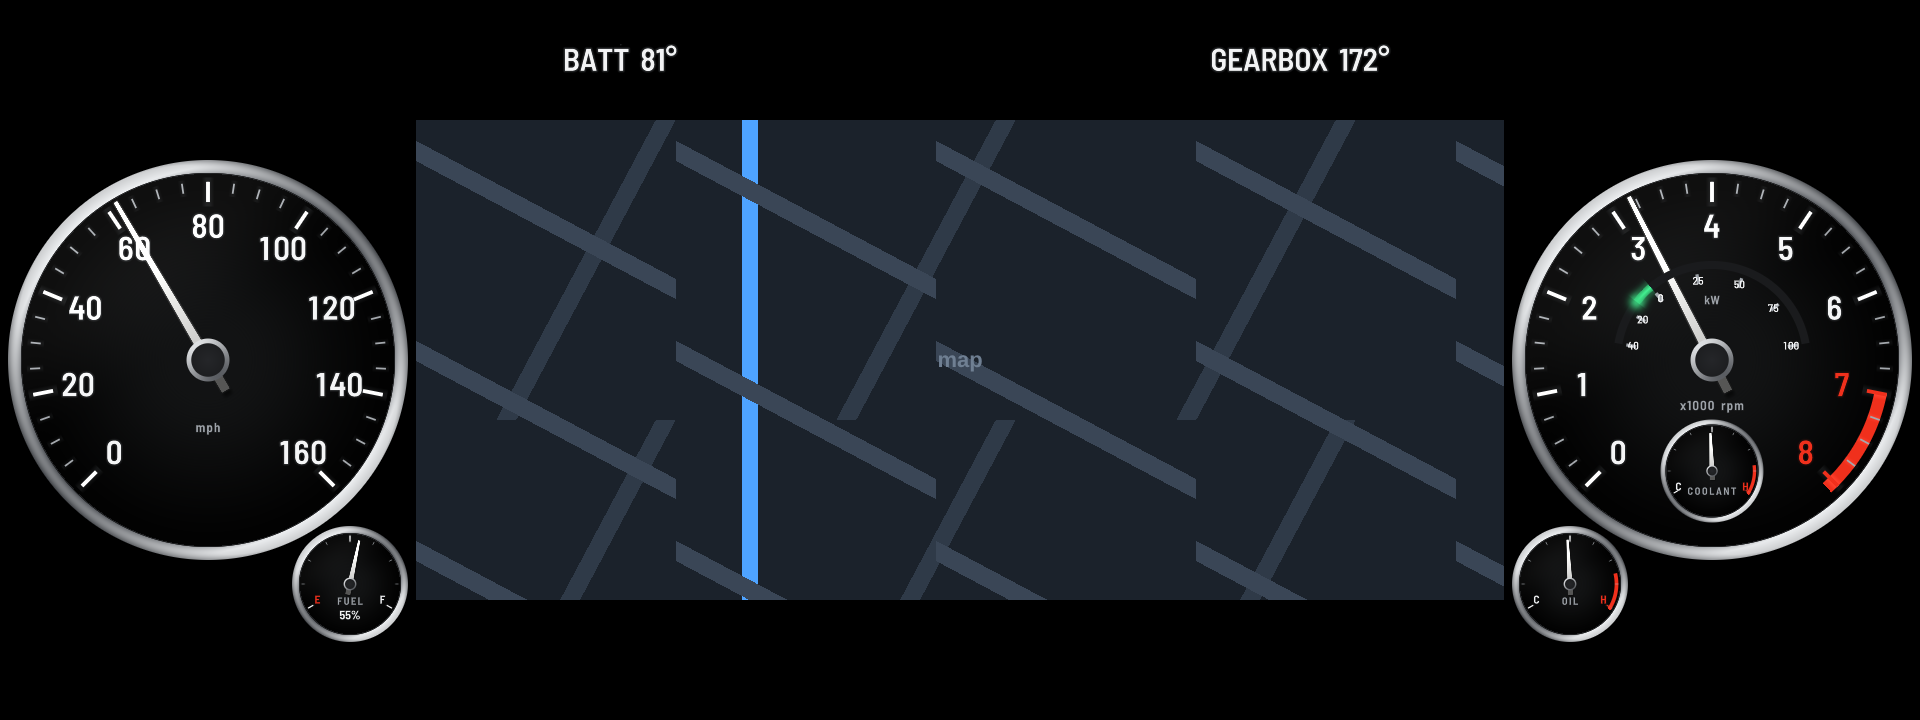
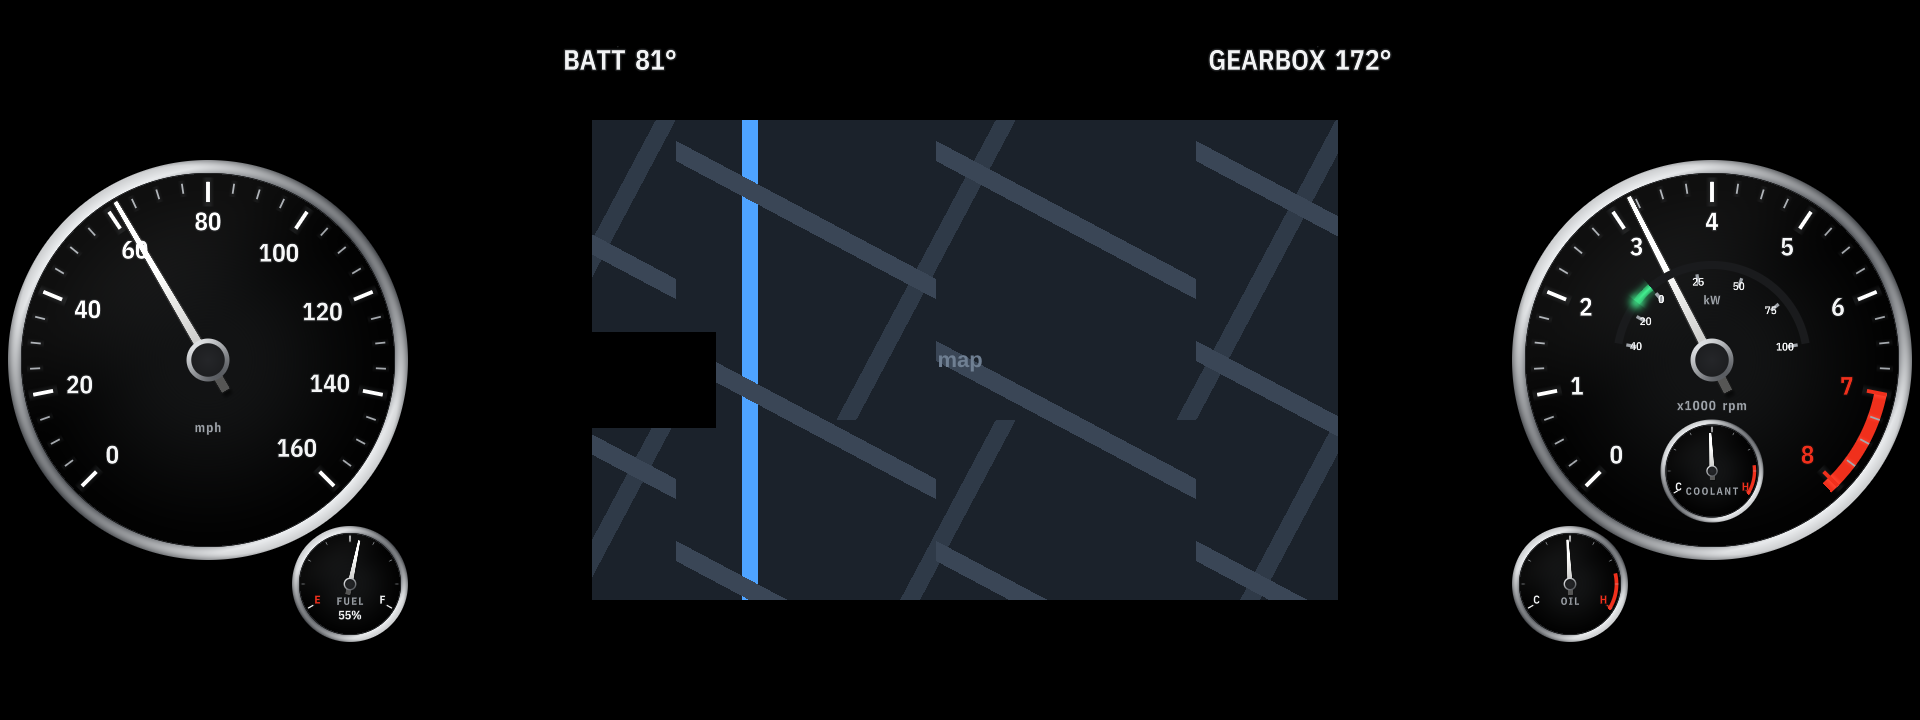
Layouts 0.50.0: the map's view between the cluster's own fins
With the map or the stock centre over the car's strip, every layout but
ID7 M and ID8 M leaves the middle of the map area open (MAP_VIEW, x
592-1338, y 120-600), the window Waze on cluster draws into, and covers
the cluster's own speed readout at its left edge (STOCK_SPEED). The stock
fins, "km/h", speed limit sign and "1/min" no longer show cut off at the
window's edges. Pulse's and GT3's rev bars run under the view.

Claude-Session: https://claude.ai/code/session_01QXViLhVqF9rtKtBBVyCzXw

diff --git a/apps/akakingj_cluster_layouts/layout_common.js b/apps/akakingj_cluster_layouts/layout_common.js
@@ -71,14 +71,25 @@ const clock = () => require('./clock').hm(undefined, true);   // (12-hour: with 
 
 /* ---------- the map window and the extra readings ---------- */
 
-/** Where waze-on-cluster's map (and the stock map) shows on the panel: the native map area (slot 0x100). With
- * the centre set to 'map', a layout leaves this clear and puts nothing over it. */
+/** The native map area (slot 0x100), where the KOMBI draws its own map or centre: with the centre set to 'map' (or
+ * the stock centre over the car's own strip) a layout puts none of its readings over it. */
 const MAP = { x: 416, y: 120, w: 1088, h: 480 };
-/** Background rectangles round the map window (top, bottom, left, right). */
-const aroundMap = () => [
-    { x: 0, y: 0, w: 1920, h: MAP.y }, { x: 0, y: MAP.y + MAP.h, w: 1920, h: 720 - MAP.y - MAP.h },
-    { x: 0, y: MAP.y, w: MAP.x, h: MAP.h }, { x: MAP.x + MAP.w, y: MAP.y, w: 1920 - MAP.x - MAP.w, h: MAP.h },
-];
+/*
+ * What a layout leaves open of it: the middle between the KOMBI's own fins (x 574 and 1357 at the top; its "km/h",
+ * speed-limit sign and "1/min" along the bottom edges), where waze-on-cluster draws its map (map_window.js). The
+ * KOMBI's speed readout at the left of its map (x 416-703, y 343-416) is covered by STOCK_SPEED.
+ */
+const MAP_VIEW = { x: 592, y: 120, w: 746, h: 480 };
+const STOCK_SPEED = { x: 592, y: 332, w: 124, h: 96 };
+/** Background rectangles round the map's view (top, bottom, left, right, the KOMBI's speed readout). */
+const aroundMap = () => {
+    const V = MAP_VIEW;
+    return [
+        { x: 0, y: 0, w: 1920, h: V.y }, { x: 0, y: V.y + V.h, w: 1920, h: 720 - V.y - V.h },
+        { x: 0, y: V.y, w: V.x, h: V.h }, { x: V.x + V.w, y: V.y, w: 1920 - V.x - V.w, h: V.h },
+        Object.assign({}, STOCK_SPEED),
+    ];
+};
 /** True when a rectangle overlaps the map window. */
 const overMap = (r) => r.x < MAP.x + MAP.w && r.x + r.w > MAP.x && r.y < MAP.y + MAP.h && r.y + r.h > MAP.y;
 
@@ -653,5 +664,5 @@ const flat = (key, x, y, w, h, colour) => ({ key, kind: 'flat', x, y, w, h, colo
 
 module.exports = {
     isNum, speedIn, speedUnit, tempIn, tempText, speedText, speedScale, rpmScale, shiftPoint, yellowAt, tempFrac, gearText, selectorLit, clock, modeText, text, flat,
-    TRIP_OWN, tripShown, tripPlaces, tripRows, ECON_UNITS, econ, econNum, econText, econUnitOf, econFrac, tripText, tripTimeText, LOW_SOC, socLow, resolveReadouts, phevPick, AUTO_READOUT, STRIP_Y, strip, stripGauges, STRIP_DROP, electric, sportNow, PCT, POWER_UNIT, EBOOST_AT, powerPct, powerFrac, powerLabels, KW_ZERO, KW_FLOOR, REGEN_RGB, kwRange, kwFrac, kwDialScale, powerMeter, tachDyn, tachValue, tachRange, stripInfoA, stripInfoB, MAP, aroundMap, overMap, cut, NOTCH, GEARBOX_HOLE, boxBezel, EDRIVE_HOLE, M_BOXES, M_HOLES, mCar, holes, TELLTALES, inCorner, distText, erangeText, outsideText, socText, kwText, reading, readingUp, bar, engineFocus, focus, pressUnitOf, pressNum, pressLabel, boostText, torqueText, torqueNum, torqueUnit, timingText, boostFrac, READOUTS, READOUT_SAMPLES, fitText, placeOf, placeReadout, placeGauge, TEMP_TONES, HOT_KEY, hotAt, mainOff, toneOf, toned, CH, CH_RED, chRed, chOf, chFrac, chMarks, readout, powerNum, powerUnitText, GAUGES, gaugeOf,
+    TRIP_OWN, tripShown, tripPlaces, tripRows, ECON_UNITS, econ, econNum, econText, econUnitOf, econFrac, tripText, tripTimeText, LOW_SOC, socLow, resolveReadouts, phevPick, AUTO_READOUT, STRIP_Y, strip, stripGauges, STRIP_DROP, electric, sportNow, PCT, POWER_UNIT, EBOOST_AT, powerPct, powerFrac, powerLabels, KW_ZERO, KW_FLOOR, REGEN_RGB, kwRange, kwFrac, kwDialScale, powerMeter, tachDyn, tachValue, tachRange, stripInfoA, stripInfoB, MAP, MAP_VIEW, STOCK_SPEED, aroundMap, overMap, cut, NOTCH, GEARBOX_HOLE, boxBezel, EDRIVE_HOLE, M_BOXES, M_HOLES, mCar, holes, TELLTALES, inCorner, distText, erangeText, outsideText, socText, kwText, reading, readingUp, bar, engineFocus, focus, pressUnitOf, pressNum, pressLabel, boostText, torqueText, torqueNum, torqueUnit, timingText, boostFrac, READOUTS, READOUT_SAMPLES, fitText, placeOf, placeReadout, placeGauge, TEMP_TONES, HOT_KEY, hotAt, mainOff, toneOf, toned, CH, CH_RED, chRed, chOf, chFrac, chMarks, readout, powerNum, powerUnitText, GAUGES, gaugeOf,
 };

diff --git a/tools/test_engine.js b/tools/test_engine.js
@@ -85,7 +85,7 @@ LAYOUTS.forEach((L) => {
         const cutOut = (l) => /^(mdash|sdash)$/.test(l.kind) && l.params.u_hole && l.params.u_hole[0] <= 820 && l.params.u_hole[0] + l.params.u_hole[2] >= 1100;
         // (over the car's strip the stock centre shows in the map's window: the backgrounds round it and the black band
         // under the layout may span the middle above and below the window, nothing in it)
-        const W = L.mapWindow || require(path.join(APP, 'layout_common')).MAP;
+        const W = L.mapWindow || require(path.join(APP, 'layout_common')).MAP_VIEW;
         const over = s.engine._pieces().filter((l) => l.x < 1100 && l.x + l.w > 820 && l.y < W.y + W.h && l.y + l.h > W.y && !cutOut(l));
         assert(!over.length, 'a piece over x 820-1100: ' + over.map((l) => l.key).join(' '));
         s.stop();
@@ -95,8 +95,10 @@ LAYOUTS.forEach((L) => {
         const s = makeScene({ layout: id, options: { centre: 'map' }, data: { speed: 0 } });
         s.engine._tick();
         // (the layout's own map window, M's and Sport's, else the native map area)
-        const W = L.mapWindow || C.MAP, overMap = (r) => r.x < W.x + W.w && r.x + r.w > W.x && r.y < W.y + W.h && r.y + r.h > W.y;
-        const over = s.engine._pieces().filter((l) => overMap(l));
+        const W = L.mapWindow || C.MAP_VIEW, overMap = (r) => r.x < W.x + W.w && r.x + r.w > W.x && r.y < W.y + W.h && r.y + r.h > W.y;
+        // (the background over the KOMBI's own speed readout at the window's left edge: C.STOCK_SPEED)
+        const S = C.STOCK_SPEED, overSpeed = (l) => !L.mapWindow && /^bg\d$/.test(l.key) && l.x >= S.x && l.y >= S.y && l.x + l.w <= S.x + S.w && l.y + l.h <= S.y + S.h;
+        const over = s.engine._pieces().filter((l) => overMap(l) && !overSpeed(l));
         // a band's or a chevron's rectangle may reach into the window as long as what it draws stays out (a
         // chevron's ink: clearance.js): only those may overlap
         const { clashes } = require('./clearance');

diff --git a/apps/akakingj_cluster_layouts/main.js b/apps/akakingj_cluster_layouts/main.js
@@ -158,8 +158,8 @@ mgu.run({
             // Cluster Centre steps aside while a layout shows
             if (cluster.status().shown) presence.mark('layouts', { centre: options().centre });
             // the Waze centre: Waze on cluster draws its map over the layout, filling the window (map_window.js): the
-            // layout's own (M's and Sport's: where bimmer-lab's put it), else the native map area
-            mapWindow.set(cluster.status().shown && options().centre === 'map' ? (layout.mapWindow || require('./layout_common').MAP) : null);
+            // layout's own (M's and Sport's: where bimmer-lab's put it), else the view the layouts leave open
+            mapWindow.set(cluster.status().shown && options().centre === 'map' ? (layout.mapWindow || require('./layout_common').MAP_VIEW) : null);
             // the vehicle found (Settings > Vehicle: Auto): the layout redrawn for it once known
             const v = D.vehicle().vehicle;
             if (v !== lastVehicle) { if (lastVehicle) cluster.rebuild(); lastVehicle = v; }

diff --git a/apps/akakingj_cluster_layouts/layout_gt3.js b/apps/akakingj_cluster_layouts/layout_gt3.js
@@ -155,7 +155,7 @@ module.exports = {
             // (full screen with the stock centre: its own area, x 566-1104, left as the other layouts leave it)
             const around = o.centre === 'stock' && !strip ? [{ x: 0, y: 0, w: 566, h: 720 }, { x: 1104, y: 0, w: 816, h: 720 }] : C.aroundMap();
             list.splice(0, 1, ...around.map((b, i) => C.flat('bg' + i, b.x, b.y, b.w, b.h, 'bg')));
-            if (o.centre === 'map') list.push(revBar(o, C.MAP.x, C.MAP.y + C.MAP.h + 8, C.MAP.w, 26));   // (the stock centre: nothing under it)
+            if (o.centre === 'map') list.push(revBar(o, C.MAP_VIEW.x, C.MAP.y + C.MAP.h + 8, C.MAP_VIEW.w, 26));   // (the stock centre: nothing under it)
         } else {
             // under the camera's cowl and inside the glass's slanted corners: the lights, the rev bar, its scale
             list.push(lights(o, 470, 170, 980, 40), C.text('shiftLbl', 330, 180, 120, 22, 'SHIFT', lbl, { align: 1, tracking: 0.14 }),

diff --git a/tools/test_app.js b/tools/test_app.js
@@ -226,7 +226,7 @@ const check = (name, fn) => { fn(); ok++; console.log('ok   ' + name); };
     ctx.settings.set('centre', 'map');
     await sleep(700);
     const mw = path.join(process.env.CLUSTER_INFO_DIR, 'map_window.txt');
-    check('Waze centre: the map window for Waze on cluster, the map area on the panel', () => assert.strictEqual(fs.readFileSync(mw, 'utf8'), 'panel 416 120 1088 480\n'));
+    check('Waze centre: the map window for Waze on cluster, the view the layout leaves open on the panel', () => assert.strictEqual(fs.readFileSync(mw, 'utf8'), 'panel 592 120 746 480\n'));
     ctx.settings.set('centre', 'info');
     await sleep(700);
     check('the readings centre: no map window', () => assert(!fs.existsSync(mw)));

diff --git a/apps/akakingj_cluster_layouts/layout_pulse.js b/apps/akakingj_cluster_layouts/layout_pulse.js
@@ -78,7 +78,7 @@ module.exports = {
                 C.text('outside', 110, 450, 290, 44, (d) => C.outsideText(o, d.outside), txt),
                 C.text('gear', 1666, 286, 244, 150, C.gearText, gearC),
                 C.text('mode', 1666, 440, 244, 26, C.modeText, accent, { tracking: 0.25 }),
-                rpmBar(o, 'rpmBar', C.MAP.x, bot + 10, C.MAP.w, 30, 48),
+                rpmBar(o, 'rpmBar', C.MAP_VIEW.x, bot + 10, C.MAP_VIEW.w, 30, 48),
             ],
             up('fuel', 20, 510, 190, 40, (d) => C.distText(o, d.frange), 'FUEL', txt, 20),
             up('elec', 215, 510, 195, 40, C.focus.range(o), C.focus.rangeLabel(o), eTxt, 20),

diff --git a/tools/cluster_demo.js b/tools/cluster_demo.js
@@ -340,7 +340,7 @@ function frame(body) {
         out.stripY = C && C.STRIP_Y ? C.STRIP_Y : 646;
     } else {
         out.stripY = req('layouts', 'layout_common').STRIP_Y || 646;
-        out.mapRect = req('layouts', 'layout_common').MAP || { x: 416, y: 120, w: 1088, h: 480 };
+        out.mapRect = req('layouts', 'layout_common').MAP_VIEW || { x: 416, y: 120, w: 1088, h: 480 };
     }
     return out;
 }

diff --git a/PERSONAL.md b/PERSONAL.md
@@ -268,6 +268,10 @@ the car, then moved to `main` (in the fork they were `personal-kr` / `personal-k
   vacuum (below the outside air) reads 0 psi / 0.00 bar / 0 kPa, not a minus figure.
   Boost is the car's sport display's first, as BMW's sport display shows it (once it has moved: a car whose sport
   display sends none sends one value all along), the engine unit's only without it; the target stays the engine unit's.
+- Layouts 0.50.0: with the map or the stock centre over the car's strip, every layout but ID7 M and ID8 M leaves the
+  middle of the map area open (layout_common.MAP_VIEW, x 592-1338, y 120-600; Waze on cluster's window too) and
+  covers the cluster's own speed readout at its left edge (STOCK_SPEED): the stock fins, "km/h", speed limit sign
+  and "1/min" no longer show cut off at the window's edges.
 
 ## Demo
 `cluster_demo.bat` (Windows) or `node tools/cluster_demo.js`.

diff --git a/apps/akakingj_cluster_layouts/README.md b/apps/akakingj_cluster_layouts/README.md
@@ -21,6 +21,10 @@ in the car's map slot under the layout, seen through the window with the cluster
 0.21.0. (Its renderer, cluster-render 0.6.x, can host a target in a scene drawn from a RAMSES file, which a layout of
 shaders doesn't have yet.)
 
+Apart from ID7 M and ID8 M (their own windows), the layouts leave the middle of the car's map area open, x 592-1338
+between the cluster's own fins, with its speed readout at the left edge covered: the stock map or centre shows there
+without the fins, "km/h", the speed limit sign or "1/min" round it.
+
 Every reading goes to the cluster within a frame of arriving: the needles and bars at 60 updates a second, the
 digits every frame, and the battery's power the moment eDrive Live reads it (it writes each
 reading at once and this app watches for it, instead of a quarter-second file cycle and a half-second scan). The
